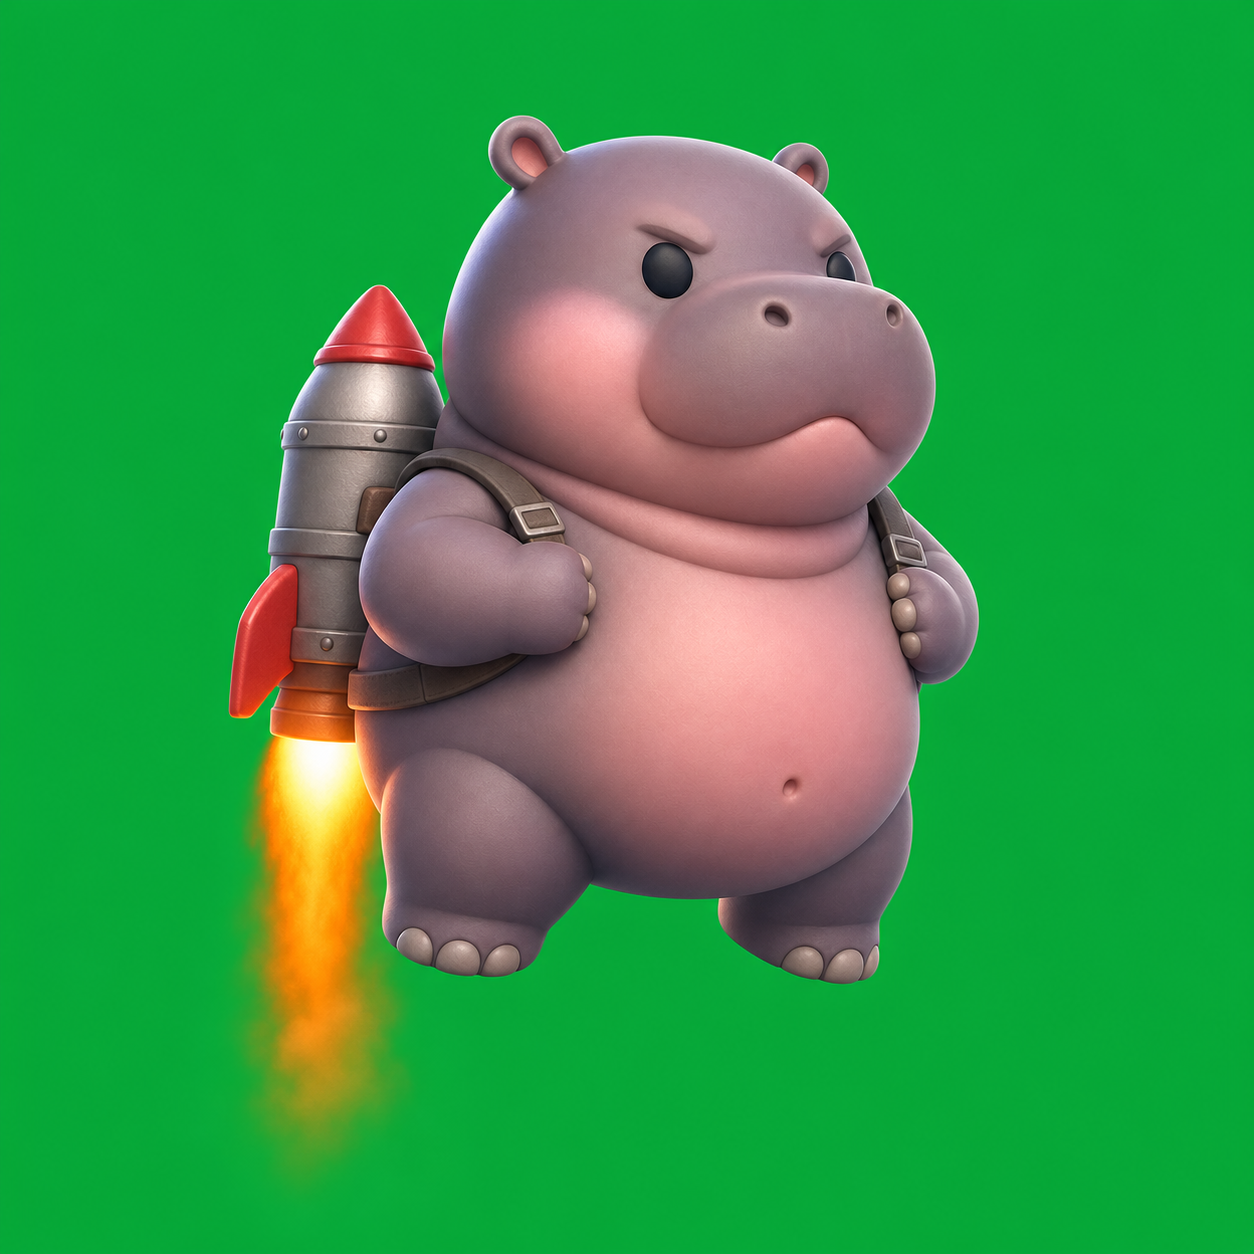
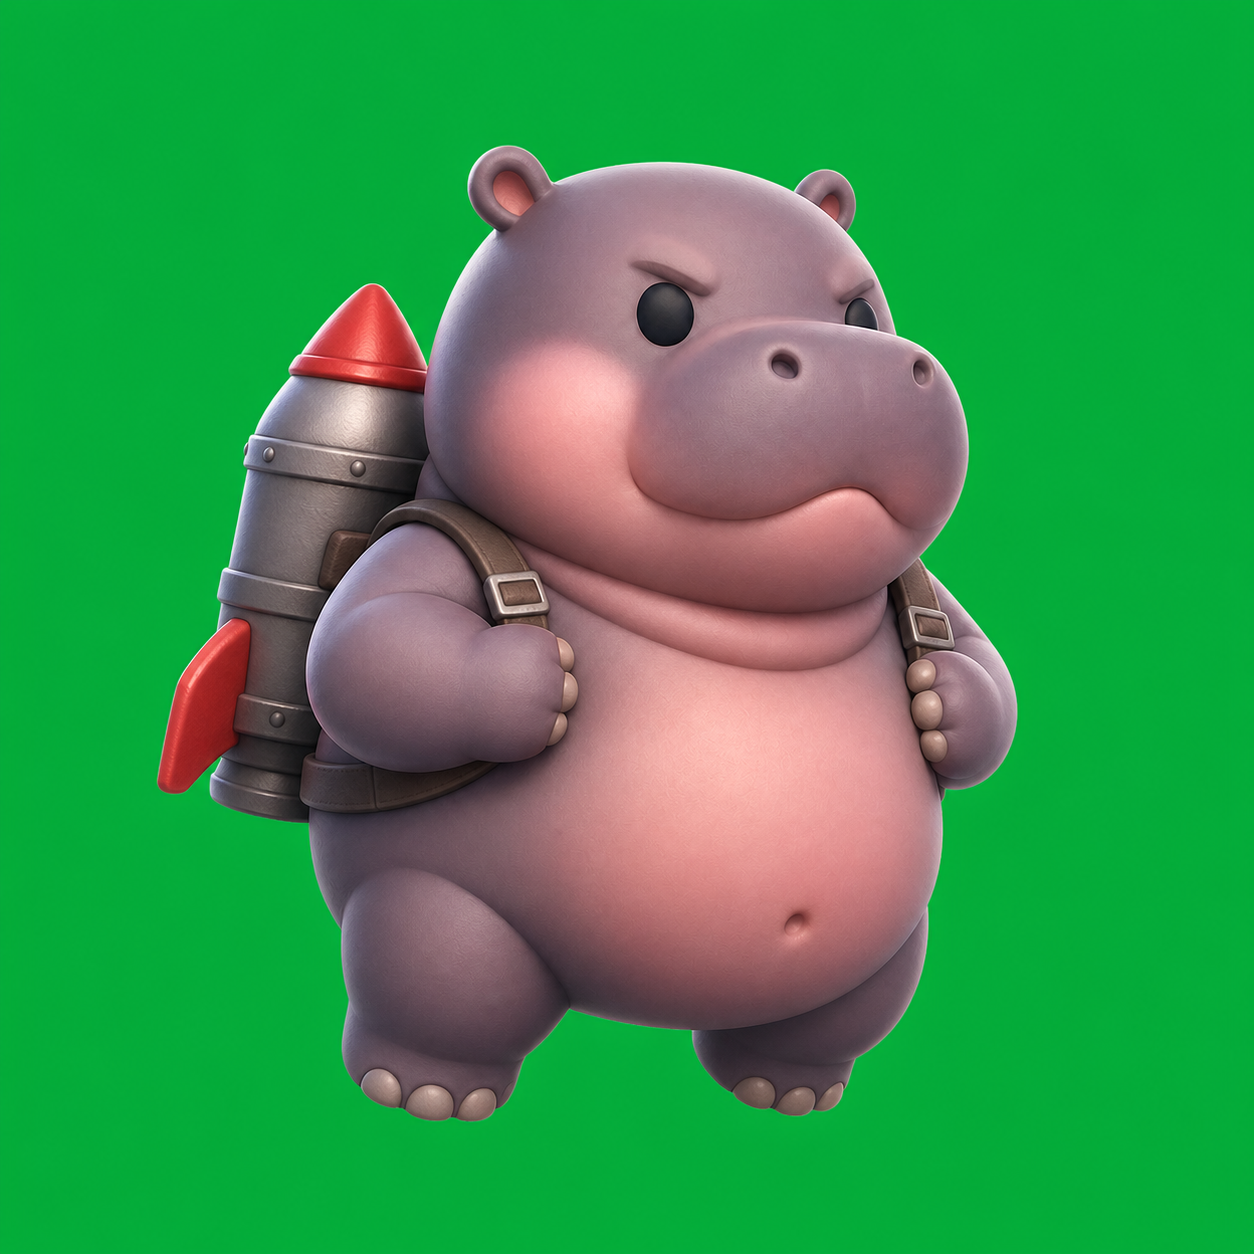
fix: boostスプライトのカバが小さい問題を修正
焼き込み炎で縦長→身長基準でカバ本体が小さく見えていた。boostを炎なしで
再生成しidleと同枠に。炎はコードパーティクルに一本化。DRAW_H.boostをidleと統一。

diff --git a/index.html b/index.html
@@ -28,7 +28,7 @@ addEventListener('resize', fit); fit();
 // ===== スプライト読込 =====
 const sprites = {};
 for(const n of ['idle','boost','fall','hit']){ const im=new Image(); im.src='assets/sprites/'+n+'.png'; sprites[n]=im; }
-const DRAW_H = { idle:78, boost:84, fall:74, hit:46 }; // 表示高さ(身長基準)
+const DRAW_H = { idle:78, boost:78, fall:74, hit:46 }; // 表示高さ(身長基準)
 
 // ===== チューニング =====
 const GRAV=1500, THRUST=2500, V_RISE=540, V_FALL=980;
